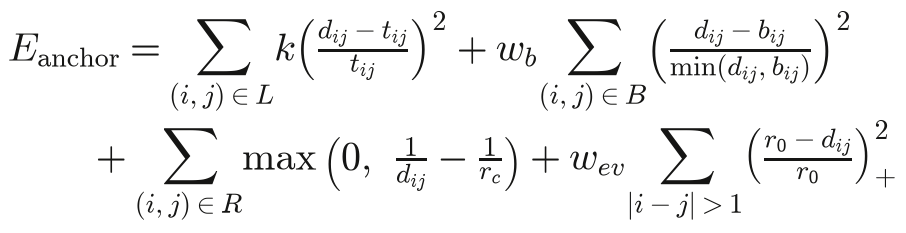
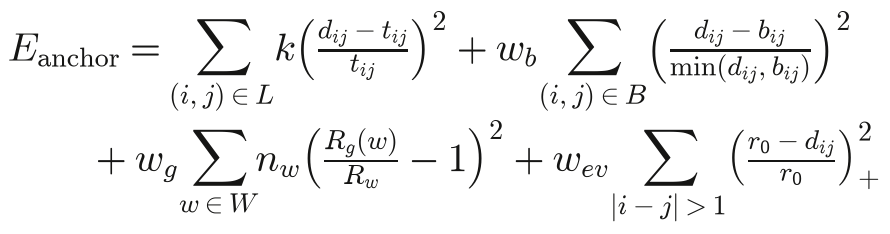
web: runtime as one word, plain statements on the Results page, Method on the 2026-11-16 production
Results text is rewritten as full sentences with a subject and a verb, and the stat cards say
what they count. Run time is runtime throughout.

The Method page predated the production of 2026-11-16. The anchor phase now starts from the
maximum entropy draw in place of the Hilbert curve, its energy holds the window size term in
place of the arcless repulsion, and reference 4 is Shi and Thirumalai 2023 in place of Hilbert.
The chain phase mentions the relaxation pass, the engine section says the server runs chains on
the CPU cores with the GPU launches as the other option, and validation says the ensemble map
is scored. The anchor energy image is redrawn and the window term added to
web/design/render_equations.py.

Help counts 186 settings, as harness/check_settings_doc.py reports. My jobs and Examples lose a
metaphor each, and seven comments in the job viewer lose their consequence clauses.

diff --git a/web/frontend/src/pages/Results.tsx b/web/frontend/src/pages/Results.tsx
@@ -47,7 +47,7 @@ const RUN_TIME: [string, string, 'seconds' | 'minutes', ToolRun[]][] = [
   ['One structure, 1 Mb', 'chr1:11.5-12.6 Mb.', 'seconds', runs([350, 6.4], [760, 7.4], [760, 9.0])],
   ['Ten structures, 60 Mb', 'chr1:1-60 Mb.', 'minutes', runs([17321, 560.9], [42480, 1207.5], [42480, 634.4])],
   ['One structure, whole chromosome', 'chr1, 248 Mb.', 'minutes', runs([50631, 194.8], [124657, 853.1], [124657, 384.2])],
-  ['Three structures at equal bead counts', 'chr1, 248 Mb. cudaMMC is set to as many beads as the other two.', 'minutes', runs([126330, 641], [124657, 2528], [124657, 673])],
+  ['Three structures at equal bead counts', 'chr1, 248 Mb. cudaMMC was set to about the same number of beads as the other two tools.', 'minutes', runs([126330, 641], [124657, 2528], [124657, 673])],
   ['One structure, whole genome', 'chr1 to chr22.', 'minutes', runs([458445, 1882.1], [1312597, null], [1312597, 2784.0], 'did not complete')],
 ]
 
@@ -74,10 +74,10 @@ const SECTIONS = [
   ['#trios', 'Nine people, three trios'],
   ['#tools', 'Other tools'],
   [`${ROUTES.method}#limitations`, 'Limitations'],
-  ['#run-time', 'Run time'],
+  ['#runtime', 'Runtime'],
 ]
 
-/** The models against measured data and against cudaMMC and MultiMM, and the run time of the three. */
+/** The models against measured data and against cudaMMC and MultiMM, and the runtime of the three. */
 export function Results() {
   return (
     <div className="doc-page">
@@ -99,16 +99,16 @@ export function Results() {
         <header className="page-head">
           <h1>Results</h1>
           <p className="lead">
-            This page compares the models with measured data and with two other tools, and shows the effect of RNAPII loops. The data are GM12878, H1ESC and HFFc6, chr1:1-60 Mb, ten structures per model. The original models are the cudaMMC models of 3D-GNOME 3.0.
+            This page compares 3D-GNOMEᴺᴳ models with measured data and with two other tools. It also shows the change in the models when RNAPII loops are added to the CTCF loops. Unless a chart states another region, the models cover chr1:1-60 Mb in the cell lines GM12878, H1ESC and HFFc6, with ten structures per model. The original models are the cudaMMC models of 3D-GNOME 3.0.
           </p>
         </header>
         <ChartKey />
         <div className="chart-row">
           <div id="agreement">
-            <BarChart title="Agreement with Hi-C" subtitle="Stratum adjusted correlation at 25 kb. The contacts of ten structures are summed before the comparison." better="higher" groups={SCC} />
+            <BarChart title="Agreement with Hi-C" subtitle="The stratum adjusted correlation between the contact map of a model and the Hi-C map, at 25 kb. The contact map of a model is the sum of the contacts of its ten structures." better="higher" groups={SCC} />
           </div>
           <div id="distance">
-            <BarChart title="Enhancer to promoter distance" subtitle="Pairs joined by an RNAPII loop only, median over pairs, bead units." groups={DISTANCE} />
+            <BarChart title="Enhancer to promoter distance" subtitle="The median 3D distance between an enhancer and its promoter, in bead units. Only the pairs joined by an RNAPII loop are counted." groups={DISTANCE} />
           </div>
         </div>
         <div className="chart-row">
@@ -116,22 +116,22 @@ export function Results() {
             <BarChart
               title="Link to expression"
               better="higher"
-              subtitle="Spearman correlation between the change in 3D distance and the change in expression across cell lines, with the sign flipped. Higher means a stronger link."
+              subtitle="The Spearman correlation between the change in enhancer to promoter distance and the change in gene expression between two cell lines. The sign is flipped, and a higher value means a stronger link."
               groups={EXPRESSION}
             />
           </div>
           <figure id="trios" className="bar-chart" aria-label="Nine people, three trios">
             <figcaption>
               <span className="chart-title">Nine people, three trios</span>
-              <span className="chart-sub">Change with RNAPII loops, measured against the Hi-C of each person.</span>
+              <span className="chart-sub">The change in the model of each person when RNAPII loops are added, measured against the Hi-C map of that person.</span>
             </figcaption>
             <div className="stat">
               <span className="stat-value">9 of 9</span>
-              <span className="stat-label">contact enrichment at RNAPII loops rises, from 39 to 98%, median 57%</span>
+              <span className="stat-label">people with more contact enrichment at RNAPII loops. The rise is 39 to 98%, and the median is 57%.</span>
             </div>
             <div className="stat">
               <span className="stat-value">2 of 9</span>
-              <span className="stat-label">correlation with the whole Hi-C map rises, from -17 to +29%, median -2%</span>
+              <span className="stat-label">people with a higher correlation with the whole Hi-C map. The change is -17 to +29%, and the median is -2%.</span>
             </div>
           </figure>
         </div>
@@ -141,40 +141,40 @@ export function Results() {
         <section id="tools">
           <h2>Other tools</h2>
           <p className="intro">
-            cudaMMC, MultiMM and 3D-GNOMEᴺᴳ on the same CTCF loops and the same Hi-C contacts. cudaMMC and MultiMM run at their default settings, and MultiMM models as many beads as 3D-GNOMEᴺᴳ.
+            cudaMMC, MultiMM and 3D-GNOMEᴺᴳ were run on the same CTCF loops and the same Hi-C contacts. cudaMMC and MultiMM used their default settings, and MultiMM was set to the same number of beads as 3D-GNOMEᴺᴳ.
           </p>
           <div className="chart-row">
             <div>
               <BarChart
                 title="Agreement with Hi-C, three tools"
-                subtitle="chr1:1-60 Mb, stratum adjusted correlation at 25 kb. The contacts of ten structures are summed before the comparison."
+                subtitle="The stratum adjusted correlation with the Hi-C map at 25 kb, on chr1:1-60 Mb. The contact map of a model is the sum of the contacts of its ten structures."
                 better="higher"
                 groups={TOOLS_SCC}
               />
             </div>
-            <figure className="bar-chart" aria-label="Twenty one runs with intervals">
+            <figure className="bar-chart" aria-label="Comparison over 21 runs">
               <figcaption>
-                <span className="chart-title">Twenty one runs with intervals</span>
-                <span className="chart-sub">Three cell lines, three regions of 5 Mb, three of 20 Mb and chr1:1-60 Mb. A lead has a 95% bootstrap interval clear of zero.</span>
+                <span className="chart-title">Comparison over 21 runs</span>
+                <span className="chart-sub">Each of the three cell lines was modelled on three regions of 5 Mb, three regions of 20 Mb and chr1:1-60 Mb. A tool counts as better in a run when the 95% bootstrap interval of the difference does not include zero.</span>
               </figcaption>
               <div className="stat">
                 <span className="stat-value">21 of 21</span>
-                <span className="stat-label">3D-GNOMEᴺᴳ leads both tools on the Pearson and on the rank correlation with Hi-C</span>
+                <span className="stat-label">runs with a higher Pearson correlation and a higher rank correlation with Hi-C for 3D-GNOMEᴺᴳ than for both other tools</span>
               </div>
               <div className="stat">
                 <span className="stat-value">12 of 21</span>
-                <span className="stat-label">3D-GNOMEᴺᴳ leads MultiMM on the stratum adjusted correlation, 15 of 21 for cudaMMC, and neither tool leads it in any run</span>
+                <span className="stat-label">runs with a higher stratum adjusted correlation for 3D-GNOMEᴺᴳ than for MultiMM. The count against cudaMMC is 15 of 21. Neither tool is better than 3D-GNOMEᴺᴳ in any run.</span>
               </div>
             </figure>
           </div>
           <p className="reading-note">
-            A region of 5 Mb is too short for the stratum adjusted correlation to separate the tools. On the nine runs of 20 Mb 3D-GNOMEᴺᴳ leads cudaMMC on all and MultiMM on seven. On chr1:1-60 Mb it leads both on every cell line.
+            A region of 5 Mb has too few bins for the stratum adjusted correlation to separate the tools. On the nine runs of 20 Mb, 3D-GNOMEᴺᴳ is better than cudaMMC in all nine and better than MultiMM in seven. On chr1:1-60 Mb it is better than both tools in every cell line.
           </p>
         </section>
-        <section id="run-time">
-          <h2>Run time</h2>
+        <section id="runtime">
+          <h2>Runtime</h2>
           <p className="intro">
-            The three tools on the same GM12878 inputs and one machine, an RTX 3090 with 36 CPU cores. At its default settings cudaMMC models a region with a third to a half of the beads of the other two. Each chart therefore gives three numbers per tool. They are the beads in its model, its run time and its run time per 1,000 beads. A tick marks the lowest time in a column.
+            The three tools were timed on the same GM12878 inputs and on one computer with an RTX 3090 and 36 CPU cores. At its default settings cudaMMC uses a third to a half of the beads of the other two tools for the same region. Each chart therefore shows three numbers per tool, the number of beads in its model, its runtime and its runtime per 1,000 beads. A tick marks the lowest time in a column.
           </p>
           <div className="chart-row one">
             {RUN_TIME.map(([title, sub, unit, toolRuns]) => (
@@ -182,19 +182,19 @@ export function Results() {
             ))}
           </div>
           <p className="reading-note">
-            Per 1,000 beads 3D-GNOMEᴺᴳ is the fastest on ten structures of 60 Mb, on one structure of the chromosome and on the genome. MultiMM is the fastest at 1 Mb, and at equal bead counts cudaMMC is 5 percent ahead of 3D-GNOMEᴺᴳ.
+            Per 1,000 beads, 3D-GNOMEᴺᴳ is the fastest tool for ten structures of 60 Mb, for one structure of the chromosome and for the genome. MultiMM is the fastest tool at 1 Mb. At equal bead counts cudaMMC is 5 percent faster than 3D-GNOMEᴺᴳ.
           </p>
           <p className="reading-note">
-            On the whole genome 3D-GNOMEᴺᴳ runs as one job. cudaMMC ran one chromosome at a time and its 22 runs are added up. MultiMM ran out of memory on the 24 GB card at 1,312,597 beads and at half of that, and at a quarter it was stopped after 90 minutes.
+            3D-GNOMEᴺᴳ models the whole genome in one job. cudaMMC was run on one chromosome at a time, and the chart shows the sum of its 22 runs. MultiMM ran out of memory on the 24 GB card at 1,312,597 beads and at half that number. At a quarter of that number it was stopped after 90 minutes.
           </p>
-          <h3 className="sub-head">Run time against the size of the task</h3>
+          <h3 className="sub-head">Runtime and the size of the region</h3>
           <p className="reading-note">
-            Each tool built one structure of eight regions of chr1, from 1 Mb to the whole chromosome of 248 Mb, and each point is one of those runs. The two charts hold the same runs. The left chart places a run by the size of its region, and it reads as the wait for a region of that size. The right chart places the same run by the number of beads in its model, and it reads as the cost of a model of that size. A tool with fewer beads per megabase sits lower on the left only.
+            The two charts below show the growth of the runtime of one structure with the size of the task. Each tool modelled eight regions of chr1, from 1 Mb to the whole chromosome of 248 Mb, and each point is one run. Both charts show the same runs. In the left chart the horizontal axis is the size of the region, and the chart shows the time you wait for a region of that size. In the right chart the horizontal axis is the number of beads in the model, and the chart compares the tools at the same number of beads. cudaMMC uses fewer beads than the other two tools for the same region. This lowers its line in the left chart and does not change the right chart.
           </p>
           <div className="chart-row">
             <LineChart
               title="One structure by region size"
-              subtitle="Regions of 1 to 100 Mb starting at chr1:10 Mb, and the whole chromosome. Both axes are logarithmic."
+              subtitle="Regions of 1 to 100 Mb that start at chr1:10 Mb, and the whole chromosome. Both axes are logarithmic."
               better="lower"
               xLabel="region, Mb"
               xTick={(x) => `${x}`}
@@ -202,7 +202,7 @@ export function Results() {
             />
             <LineChart
               title="One structure by bead count"
-              subtitle="The same runs placed by the bead count of each model. Both axes are logarithmic."
+              subtitle="The same runs, with the number of beads in each model on the horizontal axis. Both axes are logarithmic."
               better="lower"
               xLabel="beads"
               xTick={(x) => x.toLocaleString('en-US')}
@@ -210,7 +210,7 @@ export function Results() {
             />
           </div>
           <p className="reading-note">
-            By region size cudaMMC is the fastest from 10 Mb, and under that it and MultiMM are level. 3D-GNOMEᴺᴳ is faster than MultiMM from about 50 Mb. By bead count MultiMM is the fastest up to about 30,000 beads and 3D-GNOMEᴺᴳ above that, and cudaMMC is level with 3D-GNOMEᴺᴳ up to about 7,000 beads and slower above. A further structure of the same region costs 3D-GNOMEᴺᴳ less than the first. One structure of chr1 takes 6.4 minutes and three take 11.2.
+            By region size, cudaMMC is the fastest tool from 10 Mb, and below 10 Mb cudaMMC and MultiMM take about the same time. 3D-GNOMEᴺᴳ is faster than MultiMM from about 50 Mb. By bead count, MultiMM is the fastest tool up to about 30,000 beads and 3D-GNOMEᴺᴳ is the fastest above that. cudaMMC takes about the same time as 3D-GNOMEᴺᴳ up to about 7,000 beads and more time above that. Each further structure of the same region costs 3D-GNOMEᴺᴳ less time than the first. One structure of chr1 takes 6.4 minutes and three structures take 11.2 minutes.
           </p>
         </section>
       </div>

diff --git a/web/frontend/src/pages/Method.tsx b/web/frontend/src/pages/Method.tsx
@@ -12,7 +12,7 @@ import '../styles/doc.css'
 
 /** The Method page's references in the order of their numbers [1] to [17]. */
 export const METHOD_REFERENCES = [
-  'szalaj2016', 'cudammc', 'lieberman2009', 'hilbert1891', 'multimm', 'byrd1995', 'zhu1997', 'kirkpatrick1983',
+  'szalaj2016', 'cudammc', 'lieberman2009', 'shi2023', 'multimm', 'byrd1995', 'zhu1997', 'kirkpatrick1983',
   'metropolis1953', 'enhancer3d', 'jax2018', 'sadowski2019', 'hicrep2017', 'kremer1990', 'rosa2008', 'tang2015', 'mirny2011',
 ]
 
@@ -41,7 +41,7 @@ type Term = [string, EquationName, string, string]
 const ANCHOR_TERMS: Term[] = [
   ['Loop spring', 't_loop_simple', 'anchor pairs joined by a loop, t = d(s, q)', '[1]'],
   ['Background spring', 't_background', 'pairs without a loop under 100 kb apart, and far pairs with more Hi-C contacts than expected', 'this work'],
-  ['Repulsion', 't_repulsion', 'all other pairs, r_c is 1.5 times the mean target', '[1, 5]'],
+  ['Window size', 't_gyration', 'genomic windows with at least four anchors, n_w the number of anchors, R_g their radius of gyration and R_w the radius from the distance law', 'this work'],
   ['Excluded volume', 't_ev', 'anchors not next to each other', '[5, 14]'],
 ]
 
@@ -59,7 +59,7 @@ function Terms({ label, terms }: { label: string; terms: Term[] }) {
       <thead>
         <tr>
           <th>Term</th>
-          <th>Energy of one pair</th>
+          <th>Energy of one pair or window</th>
           <th>Applies to</th>
           <th>Source</th>
         </tr>
@@ -163,7 +163,7 @@ export function Method() {
         </Section>
 
         <Section id="anchors">
-          <P>{'All anchors of a chromosome are placed in one fit. The start is a Hilbert curve [4] scaled to b(s), as in MultiMM [5]. L-BFGS-B [6, 7] then minimises the anchor energy below, with L the anchor pairs joined by a loop, B the pairs held at the background and R all other pairs. A loop spring uses k_s when the pair is further apart than its target t and k_q otherwise. Ten annealing runs from perturbed starts end within one percent of the same energy, and L-BFGS-B reaches that minimum. The GPU evaluates the energy and its gradient, the optimiser runs on the CPU, and the fit stops when the relative improvement per iteration drops below 1e-6.'}</P>
+          <P>{'All anchors of a chromosome are placed in one fit. Each structure starts from a random draw of the anchor positions. The draw comes from a Gaussian model that is fitted once per run, and its mean pair distances are as close to the target distances as a Gaussian model allows, as in the maximum entropy models of Shi and Thirumalai [4]. L-BFGS-B [6, 7] then minimises the anchor energy below, with L the anchor pairs joined by a loop, B the pairs held at the background and W a set of genomic windows. A loop spring uses k_s when the pair is further apart than its target t and k_q otherwise. The window term keeps each part of the chromosome at the size the distance law gives for its length. The windows start at 100 kb and double in size up to the whole chromosome, and each size is placed twice, the second time shifted by half a window. The GPU evaluates the pair terms and their gradient, the optimiser runs on the CPU, and the fit stops when the relative improvement per iteration drops below 1e-6.'}</P>
           <div className="equations">
             <Equation name="anchor_energy" />
           </div>
@@ -171,7 +171,7 @@ export function Method() {
         </Section>
 
         <Section id="chain">
-          <P>{"The beads between two anchors start on a compact random coil at the bond targets, and the anchors stay where the anchor phase put them. Simulated annealing [8] moves one bead at a time and scores the chain energy below, with C the anchor pairs joined by a CTCF loop and o the direction of the CTCF motif at an anchor. A move that lowers the energy is accepted, and a move that raises it is accepted with the probability below, where E' is the energy after the move. The temperature T falls by a constant factor each step [1, 9]. A wall rejects any move that brings two beads closer than the excluded volume radius."}</P>
+          <P>{"The beads between two anchors start on a compact random coil at the bond targets, and the anchors stay where the anchor phase put them. Simulated annealing [8] moves one bead at a time and scores the chain energy below, with C the anchor pairs joined by a CTCF loop and o the direction of the CTCF motif at an anchor. A move that lowers the energy is accepted, and a move that raises it is accepted with the probability below, where E' is the energy after the move. The temperature T falls by a constant factor each step [1, 9]. A wall rejects any move that brings two beads closer than the excluded volume radius. After the chains of all blocks are finished, a last pass moves the beads that still overlap, within a block or between two blocks, and keeps the anchors fixed."}</P>
           <div className="equations">
             <Equation name="chain_energy" />
             <Equation name="acceptance_plain" />
@@ -203,7 +203,8 @@ export function Method() {
 
         <Section id="engine">
           <P>A run is a graph of tasks that grows while it runs, figure 3a. The region task adds one task per chromosome, a chromosome task adds its blocks, and each chromosome gets one anchor fit and one chain task per block. Each stage has its own executor, serial, threaded or batched on the GPU. Results are applied in a fixed order, and a run with the same settings and seed gives the same structures.</P>
-          <P>{'The chain tasks of many blocks run together in JAX [11] launches on the GPU, figure 3b. Each block is padded to the next size on a fixed ladder, and blocks with the same energy terms are packed into as few launches as GPU memory allows. Each chain has its own random stream, and the grouping of chains into launches does not change the result of a chain. A chain that converges holds its state while the rest of the launch continues. Each annealing step tests 32 proposals against the current state and applies the first accepted one, which keeps the serial Metropolis rule. Excluded volume uses a grid of cells rebuilt every 2,048 proposals. With several GPUs each launch group goes whole to one GPU, and the output does not depend on the number of GPUs.'}</P>
+          <P>On the server the anchor fit uses the GPU and the chain tasks run on the CPU cores, one chain per thread. Excluded volume uses a grid of cells, and the cost of a step does not grow with the size of the block.</P>
+          <P>{'The chain tasks of many blocks can also run together in JAX [11] launches on the GPU, figure 3b. This is faster on a computer with few CPU cores. Each block is padded to the next size on a fixed ladder, and blocks with the same energy terms are packed into as few launches as GPU memory allows. Each chain has its own random stream, and the grouping of chains into launches does not change the result of a chain. A chain that converges holds its state while the rest of the launch continues. Each annealing step tests 32 proposals against the current state and applies the first accepted one, which keeps the serial Metropolis rule. The grid of cells is rebuilt every 2,048 proposals. With several GPUs each launch group goes whole to one GPU, and the output does not depend on the number of GPUs.'}</P>
           <figure className="figure">
             <img src={engineGraph} alt="Task graph of a run on two chromosomes: a region task, one task per chromosome, its blocks, one anchor fit per chromosome on the CPU with the energy on the GPU, the chains of seven blocks in one batched launch, and the assembly" />
             <figcaption>
@@ -235,7 +236,7 @@ export function Method() {
         </Section>
 
         <Section id="validation">
-          <P>{'A change to the engine becomes the default only after it is measured on GM12878, H1ESC and HFFc6. The measurements are the stratum adjusted correlation with Hi-C [13] at 25 kb, the correlation with Micro-C at 5 kb where a map exists, the exponent of distance against separation, and the number of overlapping beads. A change meant to leave results unchanged is checked by comparing bead coordinates with the previous version. A test against the original 3D-GNOME program compares the distance distributions of both ensembles on a 2 Mb region. The Results page lists the measurements.'}</P>
+          <P>{'A change to the engine becomes the default only after it is measured on GM12878, H1ESC and HFFc6. The contacts of the structures of an ensemble are summed into one map, and the measurements are the stratum adjusted correlation [13] and the rank correlation of that map with Hi-C at 25 kb, the correlation with Micro-C at 5 kb where a map exists, the exponent of distance against separation, and the number of overlapping beads. A change meant to leave results unchanged is checked by comparing bead coordinates with the previous version. A test against the original 3D-GNOME program compares the distance distributions of both ensembles on a 2 Mb region. The Results page lists the measurements.'}</P>
         </Section>
 
         <Section id="limitations">

diff --git a/web/frontend/src/pages/Results.test.tsx b/web/frontend/src/pages/Results.test.tsx
@@ -26,14 +26,14 @@ describe('Results page', () => {
     expect(values(screen.getByRole('figure', { name: 'Link to expression' }))).toEqual(['0.19', '0.26', '0.28', '0.12', '0.18', '0.22', '0.25', '0.29', '0.31'])
   })
 
-  it('shows the beads, the run time and the run time per 1,000 beads of each tool', () => {
+  it('shows the beads, the runtime and the runtime per 1,000 beads of each tool', () => {
     renderResults()
     const cells = (figure: HTMLElement, id: string) => within(figure).getAllByTestId(id).map((el) => el.textContent)
     const one = screen.getByRole('figure', { name: 'One structure, 1 Mb' })
     expect(values(one)).toEqual(['6.4', '7.4', '9.0'])
     expect(cells(one, 'beads-value')).toEqual(['350', '760', '760'])
     expect(cells(one, 'rate-value')).toEqual(['18.3', '9.7', '11.8'])
-    expect(within(one).getByRole('columnheader', { name: /^run time, seconds/ })).toBeInTheDocument()
+    expect(within(one).getByRole('columnheader', { name: /^runtime, seconds/ })).toBeInTheDocument()
     expect(cells(one, 'better')).toEqual(['↑ more is finer', '↓ lower is better', '↓ lower is better'])
     expect(within(one).getByTestId('bar-best').closest('tr')).toHaveTextContent('cudaMMC')
     expect(within(one).getByTestId('rate-best').closest('tr')).toHaveTextContent('MultiMM')
@@ -65,7 +65,7 @@ describe('Results page', () => {
   it('compares the three tools on Hi-C and counts the runs with intervals', () => {
     renderResults()
     expect(values(screen.getByRole('figure', { name: 'Agreement with Hi-C, three tools' }))).toEqual(['0.22', '0.30', '0.51', '0.15', '0.17', '0.34', '0.15', '0.18', '0.44'])
-    const runs = screen.getByRole('figure', { name: 'Twenty one runs with intervals' })
+    const runs = screen.getByRole('figure', { name: 'Comparison over 21 runs' })
     expect(within(runs).getByText('21 of 21')).toBeInTheDocument()
     expect(within(runs).getByText('12 of 21')).toBeInTheDocument()
   })

diff --git a/web/frontend/src/job/heatmap.ts b/web/frontend/src/job/heatmap.ts
@@ -4,10 +4,10 @@ export type Show = 'observed' | 'expected' | 'oe' | 'pearson'
 export const DARKEST: [number, number, number] = [110, 18, 8]
 const STOPS: [number, number, number][] = [[255, 255, 255], [241, 120, 60], DARKEST]
 
-/** The expected contact at each separation: the mean over pairs whose rows both hold contacts,
- * and from three bins apart the median of the neighbouring separations, so one sparse stratum
- * does not stand out as a stripe. The main diagonal is left empty; the maps hold no pair within
- * one bin. */
+/** The expected contact at each separation. It is the mean over pairs whose rows both hold
+ * contacts, and from three bins apart the median of the neighbouring separations. The median
+ * stops one sparse stratum from showing as a stripe. The main diagonal is left empty. The maps
+ * hold no pair within one bin. */
 function expected(m: number[][]): number[][] {
   const n = m.length
   const live = m.map((row, i) => row.some((v, j) => j !== i && v > 0))
@@ -73,8 +73,8 @@ export function diverging(v: number, span: number): [number, number, number] {
 
 /** The ramp colour of a value between lo and hi, on a log scale when asked. */
 export function colour(v: number, lo: number, hi: number, log: boolean): [number, number, number] {
-  // A true log, so a map of values below one spreads as one of counts does; a lower end of zero
-  // takes a floor a thousandth of the upper end.
+  // A true log spreads a map of values below one as it spreads a map of counts. A lower end of
+  // zero takes a floor of a thousandth of the upper end.
   const floor = lo > 0 ? lo : hi / 1000
   const f = (x: number) => (log ? Math.log(Math.max(x, floor)) : x)
   const span = f(hi) - f(lo)

diff --git a/web/frontend/src/components/ToolRuns.tsx b/web/frontend/src/components/ToolRuns.tsx
@@ -12,14 +12,14 @@ const TIE = 0.02
 
 /**
  * The runs of several tools on one task as a table of bars. Each tool has three bars, the beads
- * in its model, its run time and its run time per 1,000 beads. Every column has its own scale
+ * in its model, its runtime and its runtime per 1,000 beads. Every column has its own scale
  * and names the direction that is better. The two time columns mark their lowest value.
  */
 export function ToolRuns({ title, subtitle, unit, runs }: { title: string; subtitle: string; unit: 'seconds' | 'minutes'; runs: ToolRun[] }) {
   const measures: Measure[] = [
     { key: 'beads', label: 'beads in the model', dir: 'higher', dirText: 'more is finer', ranks: false, value: (r) => r.beads, text: (v) => v.toLocaleString('en-US') },
-    { key: 'bar', label: `run time, ${unit}`, dir: 'lower', ranks: true, value: (r) => (r.seconds === null ? null : unit === 'minutes' ? r.seconds / 60 : r.seconds), text: (v) => v.toFixed(1) },
-    { key: 'rate', label: 'seconds per 1,000 beads', dir: 'lower', ranks: true, value: (r) => (r.seconds === null ? null : (r.seconds / r.beads) * 1000), text: (v) => v.toFixed(1) },
+    { key: 'bar', label: `runtime, ${unit}`, dir: 'lower', ranks: true, value: (r) => (r.seconds === null ? null : unit === 'minutes' ? r.seconds / 60 : r.seconds), text: (v) => v.toFixed(1) },
+    { key: 'rate', label: 'runtime per 1,000 beads, seconds', dir: 'lower', ranks: true, value: (r) => (r.seconds === null ? null : (r.seconds / r.beads) * 1000), text: (v) => v.toFixed(1) },
   ]
   const max = measures.map((m) => Math.max(...runs.map((r) => m.value(r) ?? 0), 1e-9))
   const min = measures.map((m) => Math.min(...runs.map((r) => m.value(r) ?? Infinity)))

diff --git a/web/frontend/src/pages/Help.tsx b/web/frontend/src/pages/Help.tsx
@@ -127,7 +127,7 @@ export function Help() {
           <h2>Questions</h2>
           <QA q="Hi-C instead of ChIA-PET" a="You can call loops from Hi-C and upload them as your own loops, with the Hi-C as the contact background. Loops called from Hi-C are noisier than ChIA-PET loops, and structures built from them are noisier too." />
           <QA q="HiCDiffusion warning" a="HiCDiffusion was trained on GM12878. For other cell types its predicted map is outside its training data." />
-          <QA q="Job run time" a="Run time grows with the size of the region and the number of structures. A job waits in the queue while the GPUs are busy, and the job page shows its place in the queue." />
+          <QA q="Job runtime" a="The runtime grows with the size of the region and the number of structures. A job waits in the queue while the GPUs are busy, and the job page shows its place in the queue." />
         </section>
 
         <section id="running">
@@ -163,7 +163,7 @@ export function Help() {
             </tbody>
           </table>
           <a className="settings-link" href="https://github.com/SFGLab/3dgnome-ng/blob/main/SETTINGS.md">
-            <BookOpen size={13} aria-hidden /> All 177 settings, from SETTINGS.md
+            <BookOpen size={13} aria-hidden /> All 186 settings, from SETTINGS.md
           </a>
         </section>
       </div>

diff --git a/web/frontend/src/pages/Method.test.tsx b/web/frontend/src/pages/Method.test.tsx
@@ -37,7 +37,7 @@ describe('Method page', () => {
 
   it('numbers the references as the design does', () => {
     expect(METHOD_REFERENCES).toEqual([
-      'szalaj2016', 'cudammc', 'lieberman2009', 'hilbert1891', 'multimm', 'byrd1995', 'zhu1997', 'kirkpatrick1983',
+      'szalaj2016', 'cudammc', 'lieberman2009', 'shi2023', 'multimm', 'byrd1995', 'zhu1997', 'kirkpatrick1983',
       'metropolis1953', 'enhancer3d', 'jax2018', 'sadowski2019', 'hicrep2017', 'kremer1990', 'rosa2008', 'tang2015', 'mirny2011',
     ])
     renderMethod()
@@ -51,7 +51,7 @@ describe('Method page', () => {
     const chainTerms = screen.getByRole('table', { name: 'Chain energy terms' })
     const source = (table: HTMLElement, term: string) =>
       within(within(table).getByRole('row', { name: new RegExp(term) })).getAllByRole('cell').at(-1)?.textContent
-    expect(source(anchorTerms, 'Repulsion')).toBe('[1, 5]')
+    expect(source(anchorTerms, 'Window size')).toBe('this work')
     expect(source(anchorTerms, 'Excluded volume')).toBe('[5, 14]')
     expect(source(chainTerms, 'Excluded volume')).toBe('[5, 14]')
     expect(source(chainTerms, 'Confinement')).toBe('[5, 15]')

diff --git a/web/frontend/src/job/Scene.tsx b/web/frontend/src/job/Scene.tsx
@@ -13,7 +13,7 @@ const HOVER = '#2A78D6'
  * of the bead under it and the hover would flicker between the two. */
 const noRaycast = () => null
 /** The labels over the canvas take no pointer events either. drei's `Html` applies its own
- * `pointerEvents` prop only to transformed labels, so the style goes on the wrapper and the
+ * `pointerEvents` prop only to transformed labels. The style is set on the wrapper and the
  * inner div by hand. A label that took the pointer would leave the canvas the moment it appeared
  * under a still cursor, clear the hover, vanish and bring the hover back, over and over. */
 const MARK_STYLE = { pointerEvents: 'none' } as const
@@ -128,7 +128,7 @@ function CameraSync({ link, id }: { link: CameraLink; id: string }) {
   return null
 }
 
-/** A light at the camera, so the side of a strand facing the viewer is lit wherever it turns. */
+/** A light at the camera. It lights the side of a strand that faces the viewer in every direction. */
 function CameraLight() {
   const light = useRef<THREE.DirectionalLight>(null)
   useFrame(({ camera }) => light.current?.position.copy(camera.position))

diff --git a/web/frontend/src/content/references.ts b/web/frontend/src/content/references.ts
@@ -73,9 +73,9 @@ export const REFERENCES: Reference[] = [
     authors: 'Metropolis N, Rosenbluth AW, Rosenbluth MN, Teller AH, Teller E', venue: 'Journal of Chemical Physics 21, 1087-1092',
   },
   {
-    key: 'hilbert1891', group: 'algorithms', year: 1891, doi: '10.1007/BF01199431',
-    title: 'Über die stetige Abbildung einer Linie auf ein Flächenstück',
-    authors: 'Hilbert D', venue: 'Mathematische Annalen 38, 459-460',
+    key: 'shi2023', group: 'algorithms', year: 2023, doi: '10.1038/s41467-023-36412-4',
+    title: 'A maximum-entropy model to predict 3D structural ensembles of chromatin from pairwise distances with applications to interphase chromosomes and structural variants',
+    authors: 'Shi G, Thirumalai D', venue: 'Nature Communications 14, 1150',
   },
   {
     key: 'hicrep2017', group: 'algorithms', year: 2017, doi: '10.1101/gr.220640.117',

diff --git a/web/frontend/src/job/ContactMapTab.tsx b/web/frontend/src/job/ContactMapTab.tsx
@@ -55,7 +55,7 @@ function draw(canvas: HTMLCanvasElement, up: Half, low: Half, log: boolean, show
     for (let j = 0; j < n; j++) {
       const v = j >= i ? upper[i][j] : lower[i][j]
       const range = j >= i ? up.range : low.range
-      // The maps hold no pair within one bin, so the main diagonal is drawn as no data.
+      // The maps hold no pair within one bin. The main diagonal is drawn as no data.
       const empty = j >= i ? emptyUp[i] || emptyUp[j] : emptyLow[i] || emptyLow[j]
       const [r, g, b] =
         i === j || empty ? NO_DATA : show === 'oe' ? diverging(v > 0 ? Math.log2(v) : -span, span) : show === 'pearson' ? diverging(v, span) : colour(v, range[0], range[1], log)

diff --git a/web/frontend/src/pages/Job.tsx b/web/frontend/src/pages/Job.tsx
@@ -20,8 +20,8 @@ export function Job({ kind, pollMs = 5000 }: { kind: 'jobs' | 'p'; pollMs?: numb
   const [params, setParams] = useSearchParams()
   const tab = (params.get('tab') as Tab) ?? 'structure'
   const [selected, setSelected] = useState(1)
-  // The tab and the comparison live in the URL as history entries, so Back returns to the
-  // previous tab or closes the comparison.
+  // The tab and the comparison are history entries in the URL. Back returns to the previous tab
+  // or closes the comparison.
   const compareTo = params.get('compare')
   const comparing = compareTo !== null
   const go = (next: Record<string, string>) => setParams(next)

diff --git a/web/frontend/src/pages/Examples.tsx b/web/frontend/src/pages/Examples.tsx
@@ -13,7 +13,7 @@ export function Examples() {
       <div className="reading">
         <header className="page-head">
           <h1>Examples</h1>
-          <p className="lead">{`Each example opens its finished job of ${EXAMPLE_STRUCTURES} structures. The first visitor waits about a minute while it runs, and everyone after opens it at once.`}</p>
+          <p className="lead">{`Each example opens its finished job of ${EXAMPLE_STRUCTURES} structures. If nobody has opened an example before, its job runs first and takes about a minute.`}</p>
         </header>
         {error && (
           <p className="field-error" role="alert">
